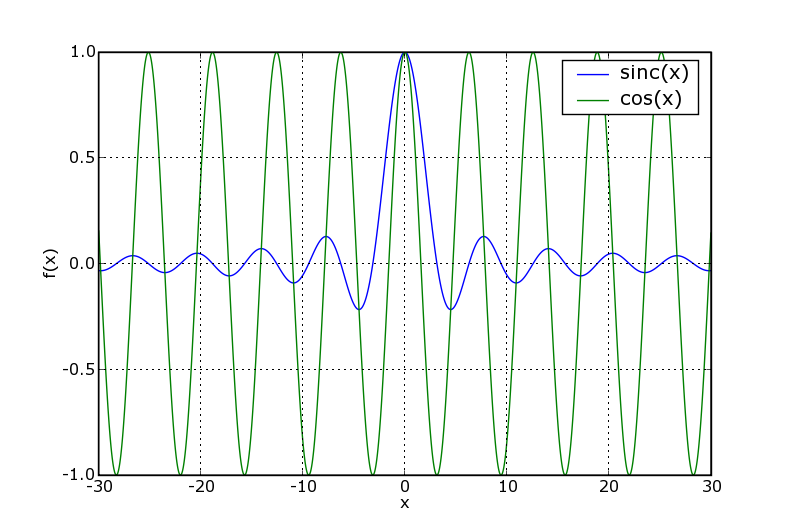
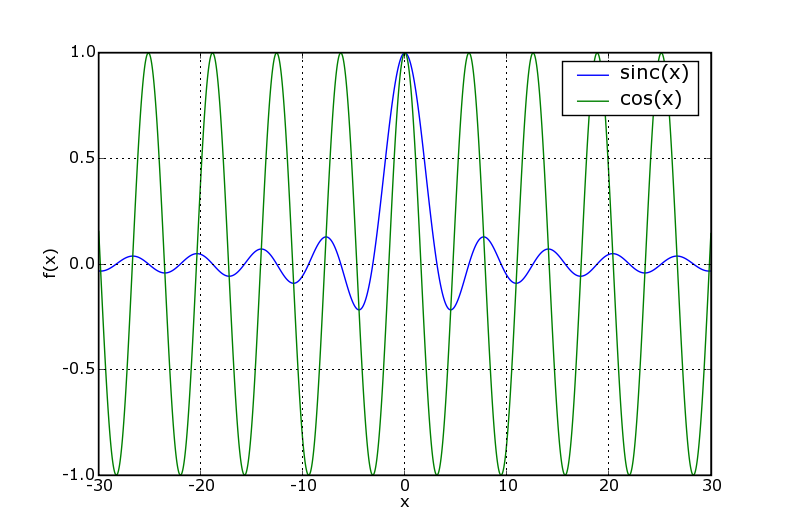
* Hard-coded figure size and DPI for matplotlib savefig test. * compare_images in DeVIDETesting now supports allow_shift. * updated test figure.

diff --git a/testing/matplotlib_tests.py b/testing/matplotlib_tests.py
@@ -28,9 +28,13 @@ class MPLTest(unittest.TestCase):
         xlabel('x')
         ylabel('f(x)')
 
+        # width and height in inches
+        f.set_figwidth(7.9)
+        f.set_figheight(5.28)
+
         # and save it to disc
         filename1 = tempfile.mktemp(suffix='.png', prefix='tmp', dir=None)
-        f.savefig(filename1)
+        f.savefig(filename1, dpi=100)
 
         # get rid of the figure
         python_shell.mpl_close_figure(f)
@@ -41,8 +45,8 @@ class MPLTest(unittest.TestCase):
 
         err = self._devide_testing.compare_png_images(test_fn, filename1)
 
-        self.failUnless(err == 0, '%s differs from %s.' %
-                        (filename1, test_fn))
+        self.failUnless(err == 0, '%s differs from %s, err = %.2f' %
+                        (filename1, test_fn, err))
 
 
 def get_suite(devide_testing):

diff --git a/testing/__init__.py b/testing/__init__.py
@@ -46,7 +46,7 @@ class DeVIDETesting:
         return os.path.join(os.path.dirname(__file__), 'images')
         
     def compare_png_images(self, image1_filename, image2_filename,
-                           threshold=16):
+                           threshold=16, allow_shift=False):
 
         """Compare two PNG images on disc.  No two pixels may differ with more
         than the default threshold.
@@ -83,6 +83,11 @@ class DeVIDETesting:
 
         idiff = vtk.vtkImageDifference()
         idiff.SetThreshold(threshold)
+
+        if allow_shift:
+            idiff.AllowShiftOn()
+        else:
+            idiff.AllowShiftOff()
 
         idiff.SetImage(ec1.GetOutput())
         idiff.SetInputConnection(ec2.GetOutputPort())
